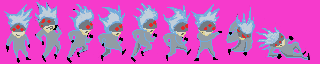
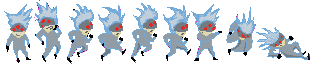
He can now run and jump on platform tiles. Sort of.

diff --git a/gamelib/player.py b/gamelib/player.py
@@ -1,8 +1,11 @@
+import sys
 import data
 import rabbyt
+from rabbyt.primitives import Quad
 import math
 import pygame
 from pygame.locals import *
+
 
 FACING_LEFT = object()
 FACING_RIGHT = object()
@@ -14,19 +17,20 @@ class Player(object):
 	def __init__(self):
 		#load our self.sprite
 		self.sprite = rabbyt.Sprite(data.filepath("ninja_basic.png"))
-		self.sprite.shape.width, self.sprite.shape.height = 32, 64
+		self.sprite.shape = (-16, -64, 16, 0)
 		self.sprite.tex_shape.width, self.sprite.tex_shape.height = 1/10.0, 1
 		self.direction = FACING_RIGHT
 		self.ambulatory_state = STANDING
 		self.y_vel = 0
-		self.sprite.y = -100
+		self.sprite.y = 480 - 32 # initial position
+		self.update_bottom_surface()
+
+	def update_bottom_surface(self):
+		x, y = self.sprite.x, self.sprite.y
+		self.bottom_surface = Quad((x-16, y-1, x+16, y))
 
 	def stand_still(self):
-		if self.ambulatory_state == JUMPING:
-			self.update()
-		if self.ambulatory_state == RUNNING:
-			self.ambulatory_state = STANDING
-			self.update()
+		pass
 
 	def move_left(self):
 		if self.ambulatory_state != JUMPING:
@@ -35,7 +39,6 @@ class Player(object):
 			self.sprite.scale_x = -1
 			self.direction = FACING_LEFT
 		self.sprite.x -= 2
-		self.update()
 
 	def move_right(self):
 		if self.ambulatory_state != JUMPING:
@@ -44,7 +47,6 @@ class Player(object):
 			self.sprite.scale_x = 1
 			self.direction = FACING_RIGHT
 		self.sprite.x += 2
-		self.update()
 
 	def jump(self):
 		'''BOING!'''
@@ -52,24 +54,39 @@ class Player(object):
 			# no double jumps!
 			return
 		self.ambulatory_state = JUMPING
-		self.y_vel = 10
-		self.update()
+		self.y_vel = -10
 
-	def update(self):
+	def check_floor(self, floor_tiles):
+		if self.y_vel < 0:
+			return
+		self.update_bottom_surface()
+		collisions = rabbyt.collisions.aabb_collide_single(
+			self.bottom_surface,
+			[t.top_surface for t in floor_tiles]
+			)
+		# print collisions
+		if collisions:
+			self.ambulatory_state = STANDING
+			self.sprite.y = collisions[0].top
+			self.y_vel = 0
+
+	def update(self, floor):
 		if self.ambulatory_state == RUNNING:
 			i = ((int(self.sprite.x) >> 3) % 4) + 2
 		elif self.ambulatory_state == STANDING:
 			i = 0
-		elif self.ambulatory_state == JUMPING:
-			print "yay I'm jumping!"
-			self.sprite.y += self.y_vel
-			self.y_vel -= 1
+		else:
 			i = 1
-			if self.sprite.y <= -100:
-				self.y_vel = 0
-				self.sprite.y = -100
-				self.ambulatory_state = STANDING
-				self.i = 0
+		self.sprite.y += self.y_vel
+		self.y_vel += 1
+
+		self.check_floor(floor)
+
+		#if self.sprite.y >= 480 - 32:
+		#	self.y_vel = 0
+		#	self.sprite.y = 480 - 32
+		#	self.ambulatory_state = STANDING
+		#	self.i = 0
 		
 		print i
 		t_x = i / 10.0

diff --git a/gamelib/main.py b/gamelib/main.py
@@ -12,21 +12,29 @@ import pygame
 from pygame.locals import *
 import player
 import data
+import background_tile
 
 def main():
 	print "Hello from your game's main()"
 	print data.load('sample.txt').read()
 
 	#setup window
-	rabbyt.init_display(size=(640, 480))
-	rabbyt.set_viewport((640, 480))
+	pygame.init()
+	pygame.display.set_mode((640, 480), pygame.OPENGL | pygame.DOUBLEBUF)
+	rabbyt.set_viewport((0, 0, 640, 480), (0, 0, 640, 480))
+	rabbyt.set_default_attribs()
+	clock = pygame.time.Clock()
 
 	p = player.Player()
+
+	floor = create_level()
 
 	#the gameloop
 	keepRunning = True
 
 	while keepRunning:
+		clock.tick()
+
 		#messagepump
 		for event in pygame.event.get():
 			if event.type == QUIT:
@@ -45,10 +53,18 @@ def main():
 		if not(pressed_keys[K_RIGHT] or pressed_keys[K_LEFT]):
 			p.stand_still()
 
+		p.update(floor)
+
+
 		#the actual rendering code
 		rabbyt.clear() #clear the screen
-
+		rabbyt.render_unsorted([t.sprite for t in floor])
 		p.sprite.render() #render the sprite
 
 		pygame.display.flip() #flip the buffers
 
+def create_level():
+	floor = [background_tile.Tile((x, 480)) for x in range(0, 640, 32)]
+	floor.extend([background_tile.Tile((x, 480-32)) for x in range(320, 640, 32)])
+	floor.extend([background_tile.Tile((x, 480-32)) for x in range(0, 32*4, 32)])
+	return floor

diff --git a/gamelib/background_tile.py b/gamelib/background_tile.py
@@ -1,0 +1,22 @@
+import data
+import rabbyt
+import math
+from rabbyt.primitives import Quad
+import pygame
+from pygame.locals import *
+
+TILE_WIDTH = 32
+TILE_HEIGHT = 32
+
+class Tile(object):
+	def __init__(self, (x_pos, y_pos)):
+		#load our self.sprite
+		self.sprite = rabbyt.Sprite(data.filepath("tile.png"))
+		self.sprite.shape = (0, -32, 32, 0)
+		self.sprite.x = x_pos
+		self.sprite.y = y_pos
+		self.top_surface = Quad((self.sprite.left,
+			self.sprite.bottom,
+			self.sprite.right,
+			self.sprite.bottom+5))
+
